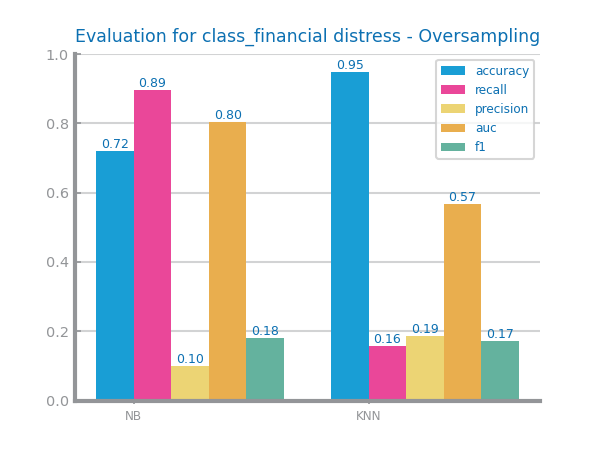
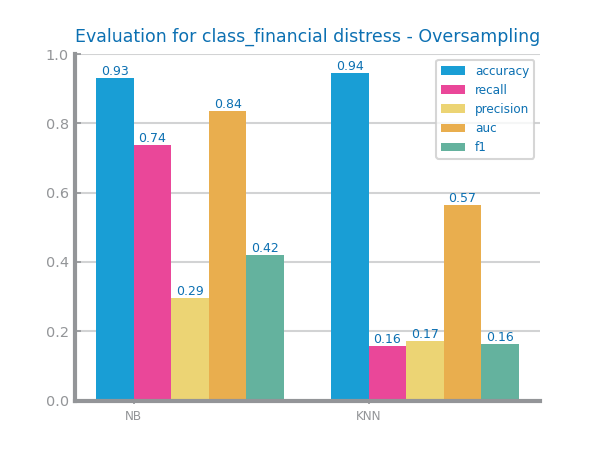
update best approaches of scaling and balancing

diff --git a/main.py b/main.py
@@ -190,8 +190,8 @@ data_processing1.apply_best_scaling_approach('Standard', techniques1,
                                              df_zscore_test1.drop(columns=[data_loader1.target]), df_zscore_test1[data_loader1.target])
 
 techniques2, df_zscore_train2, df_zscore_test2, df_minmax_train2, df_minmax_test2 = data_processing2.handle_scaling()
-print(f"\nFrom the plots we conclude that the best approach for the Scaling of the {data_loader2.file_tag} dataset is Standard\n")
-data_processing2.apply_best_scaling_approach('Standard', techniques2,
+print(f"\nFrom the plots we conclude that the best approach for the Scaling of the {data_loader2.file_tag} dataset is to keep the original (no scaling)\n")
+data_processing2.apply_best_scaling_approach('Original', techniques2,
                                              df_zscore_train2.drop(columns=[data_loader2.target]), df_zscore_train2[data_loader2.target],
                                              df_zscore_test2.drop(columns=[data_loader2.target]), df_zscore_test2[data_loader2.target])
 
@@ -214,12 +214,12 @@ y2_test.to_csv("data/class_financial_distress_ytest_scaling.csv", index=False)
 
 # Handle Balancing
 techniques1, df_under_X1, df_under_y1, df_over_X1, df_over_y1, smote_X1, smote_y1 = data_processing1.handle_balancing()
-print(f"\nFrom the plots we conclude that the best approach for the Balancing of the {data_loader1.file_tag} dataset is Oversampling\n")
-data_processing1.apply_best_balancing_approach('Oversampling', techniques1, df_over_X1, df_over_y1)
+print(f"\nFrom the plots we conclude that the best approach for the Balancing of the {data_loader1.file_tag} dataset is SMOTE\n")
+data_processing1.apply_best_balancing_approach('SMOTE', techniques1, smote_X1, smote_y1)
 
 techniques2, df_under_X2, df_under_y2, df_over_X2, df_over_y2, smote_X2, smote_y2 = data_processing2.handle_balancing()
-print(f"\nFrom the plots we conclude that the best approach for the Balancing of the {data_loader2.file_tag} dataset is SMOTE\n")
-data_processing2.apply_best_balancing_approach('SMOTE', techniques2, smote_X2, smote_y2)
+print(f"\nFrom the plots we conclude that the best approach for the Balancing of the {data_loader2.file_tag} dataset is Undersampling\n")
+data_processing2.apply_best_balancing_approach('Undersampling', techniques2, df_under_X2, df_under_y2)
 
 # Save the data
 X1_train, X1_test, y1_train, y1_test = (data_processing1.X_train, data_processing1.X_test,
